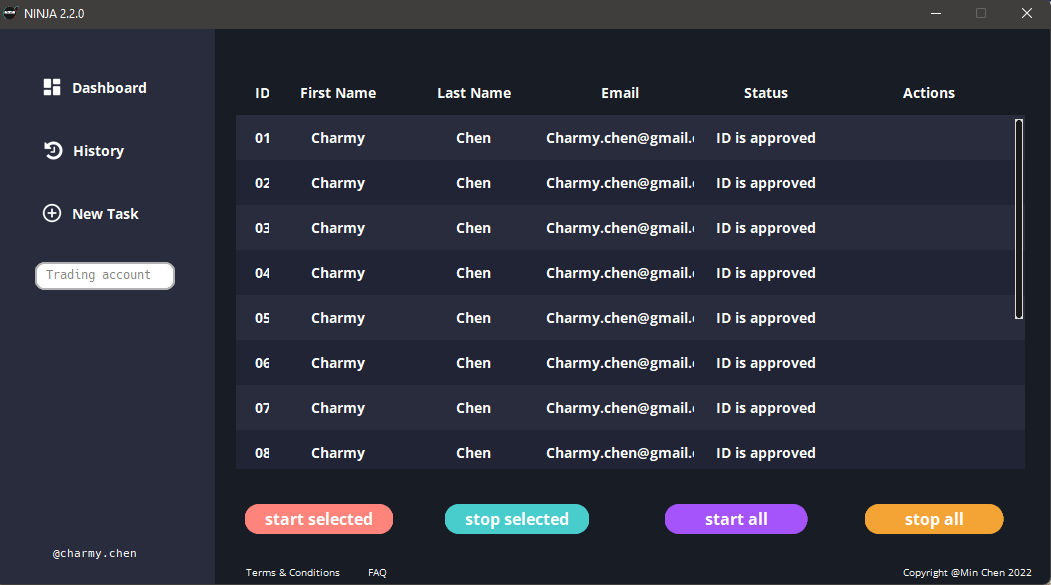
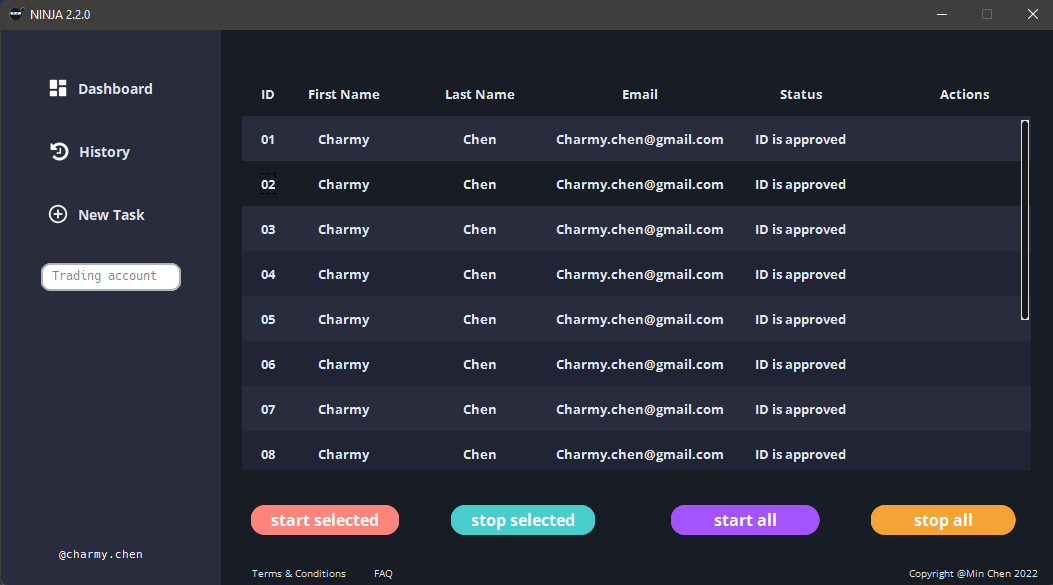
new UI image

diff --git a/gui/testgui/ninja_buttons.py b/gui/testgui/ninja_buttons.py
@@ -21,7 +21,7 @@ class DashboardButton(customtkinter.CTkButton):
         dashboard_image_tk = ImageTk.PhotoImage(dashboard_image)
         super().__init__(*args,
                          text="Dashboard",
-                         text_color="white",
+                         text_color="#dfe8ee",
                          image=dashboard_image_tk,
                          text_font=("Open SANS", -14, "bold"),
                          hover=False,
@@ -34,7 +34,7 @@ class NewTaskButton(customtkinter.CTkButton):
         new_task_image_tk = ImageTk.PhotoImage(new_task_image)
         super().__init__(*args,
                          text="New Task",
-                         text_color="white",
+                         text_color="#dfe8ee",
                          image=new_task_image_tk,
                          text_font=("Open SANS", -14, "bold"),
                          hover=False,
@@ -47,7 +47,7 @@ class HistoryButton(customtkinter.CTkButton):
         history_image_tk = ImageTk.PhotoImage(history_image)
         super().__init__(*args,
                          text="History",
-                         text_color="white",
+                         text_color="#dfe8ee",
                          image=history_image_tk,
                          text_font=("Open SANS", -14, "bold"),
                          hover=False,
@@ -58,7 +58,7 @@ class TermsAndConditions(customtkinter.CTkButton):
     def __init__(self, *args, **kwargs):
         super().__init__(*args,
                          text="Terms & Conditions",
-                         text_color="white",
+                         text_color="#dfe8ee",
                          text_font=("Open SANS", -10),
                          hover_color="#181c24",
                          fg_color="#181c24",
@@ -70,7 +70,7 @@ class FAQ(customtkinter.CTkButton):
         super().__init__(*args,
                          text="FAQ",
                          width=20,
-                         text_color="white",
+                         text_color="#dfe8ee",
                          text_font=("Open SANS", -10),
                          hover_color="#181c24",
                          fg_color="#181c24",
@@ -82,7 +82,7 @@ class CopyRight(customtkinter.CTkButton):
         super().__init__(*args,
                          text="Copyright @Min Chen 2022",
                          width=20,
-                         text_color="white",
+                         text_color="#dfe8ee",
                          text_font=("Open SANS", -10),
                          hover_color="#181c24",
                          fg_color="#181c24",
@@ -122,7 +122,7 @@ class StartAll(customtkinter.CTkButton):
                          text_color="white",
                          height=10,
                          width=10,
-                         corner_radius=37,
+                         corner_radius=40,
                          fg_color="#a553fb",  # purple
                          text_font=("Open SANS", -16, "bold"),
                          **kwargs)
@@ -135,7 +135,7 @@ class StopAll(customtkinter.CTkButton):
                          text_color="white",
                          height=10,
                          width=10,
-                         corner_radius=37,
+                         corner_radius=40,
                          fg_color="#f4a434",  # purple
                          text_font=("Open SANS", -16, "bold"),
                          **kwargs)
@@ -146,9 +146,9 @@ class StopAll(customtkinter.CTkButton):
 #         run_image_tk = ImageTk.PhotoImage(run_image)
 #         super().__init__(*args,
 #                          bg='#202023',
-#                          fg='white',
+#                          fg='#dfe8ee',
 #                          image=run_image_tk,
 #                          border=0,
 #                          activebackground='#202023',
-#                          activeforeground='white',
+#                          activeforeground='#dfe8ee',
 #                          **kwargs)

diff --git a/gui/testgui/ninja_treeviews.py b/gui/testgui/ninja_treeviews.py
@@ -5,20 +5,20 @@ class TaskListHeader(ttk.Treeview):
     def __init__(self, *args, **kwargs):
         super().__init__(*args,
                          columns=("First Name", "Last Name", "Email Address", "Status", "Actions"),
-                         height=43,
+                         # height=43,
                          show="tree",
                          **kwargs)
 
         self._header_style = ttk.Style()
         self._header_style.theme_use("default")
         self._header_style.configure(style="Treeview",
-                                     foreground="#FFFFFF",
+                                     foreground="#dfe8ee",
                                      background="#181c24",
                                      fieldbackground="#282c3c",
                                      rowheight=45,
-                                     font=("Open SANS", -14, "bold"))
+                                     font=("Open SANS", -13, "bold"))
         self._header_style.map(style='Treeview',
-                               foreground=[('!selected', "#FFFFFF")],
+                               foreground=[('!selected', "#dfe8ee")],
                                background=[('selected', "#181c24")])
 
         attributes = ["ID", "First Name", "Last Name", "Email Address", "Status", "Actions"]
@@ -26,7 +26,7 @@ class TaskListHeader(ttk.Treeview):
         self.column(f"#0", minwidth=34, width=34, anchor="center")
         self.column(f"#1", minwidth=136, width=136, anchor="center")
         self.column(f"#2", minwidth=136, width=136, anchor="center")
-        self.column(f"#3", minwidth=156, width=156, anchor="center")
+        self.column(f"#3", minwidth=185, width=156, anchor="center")
         self.column(f"#4", minwidth=136, width=136, anchor="center")
         self.column(f"#5", minwidth=191, width=191, anchor="center")
         self.insert('', 'end', text='ID', values=('First Name', 'Last Name', 'Email', 'Status', 'Actions'))
@@ -41,12 +41,12 @@ class TaskList(ttk.Treeview):
                          show="tree",
                          **kwargs)
 
-        self.tag_configure("odd", background="#282c3c", foreground="#FFFFFF")
-        self.tag_configure("even", background="#202434", foreground="#FFFFFF")
+        self.tag_configure("odd", background="#282c3c", foreground="#dfe8ee")
+        self.tag_configure("even", background="#202434", foreground="#dfe8ee")
 
         self.column(f"#0", minwidth=34, width=34, anchor="center")
         self.column(f"#1", minwidth=136, width=136, anchor="center")
         self.column(f"#2", minwidth=136, width=136, anchor="center")
-        self.column(f"#3", minwidth=156, width=156, anchor="center")
+        self.column(f"#3", minwidth=185, width=156, anchor="center")
         self.column(f"#4", minwidth=136, width=136, anchor="center")
         self.column(f"#5", minwidth=191, width=191, anchor="center")
